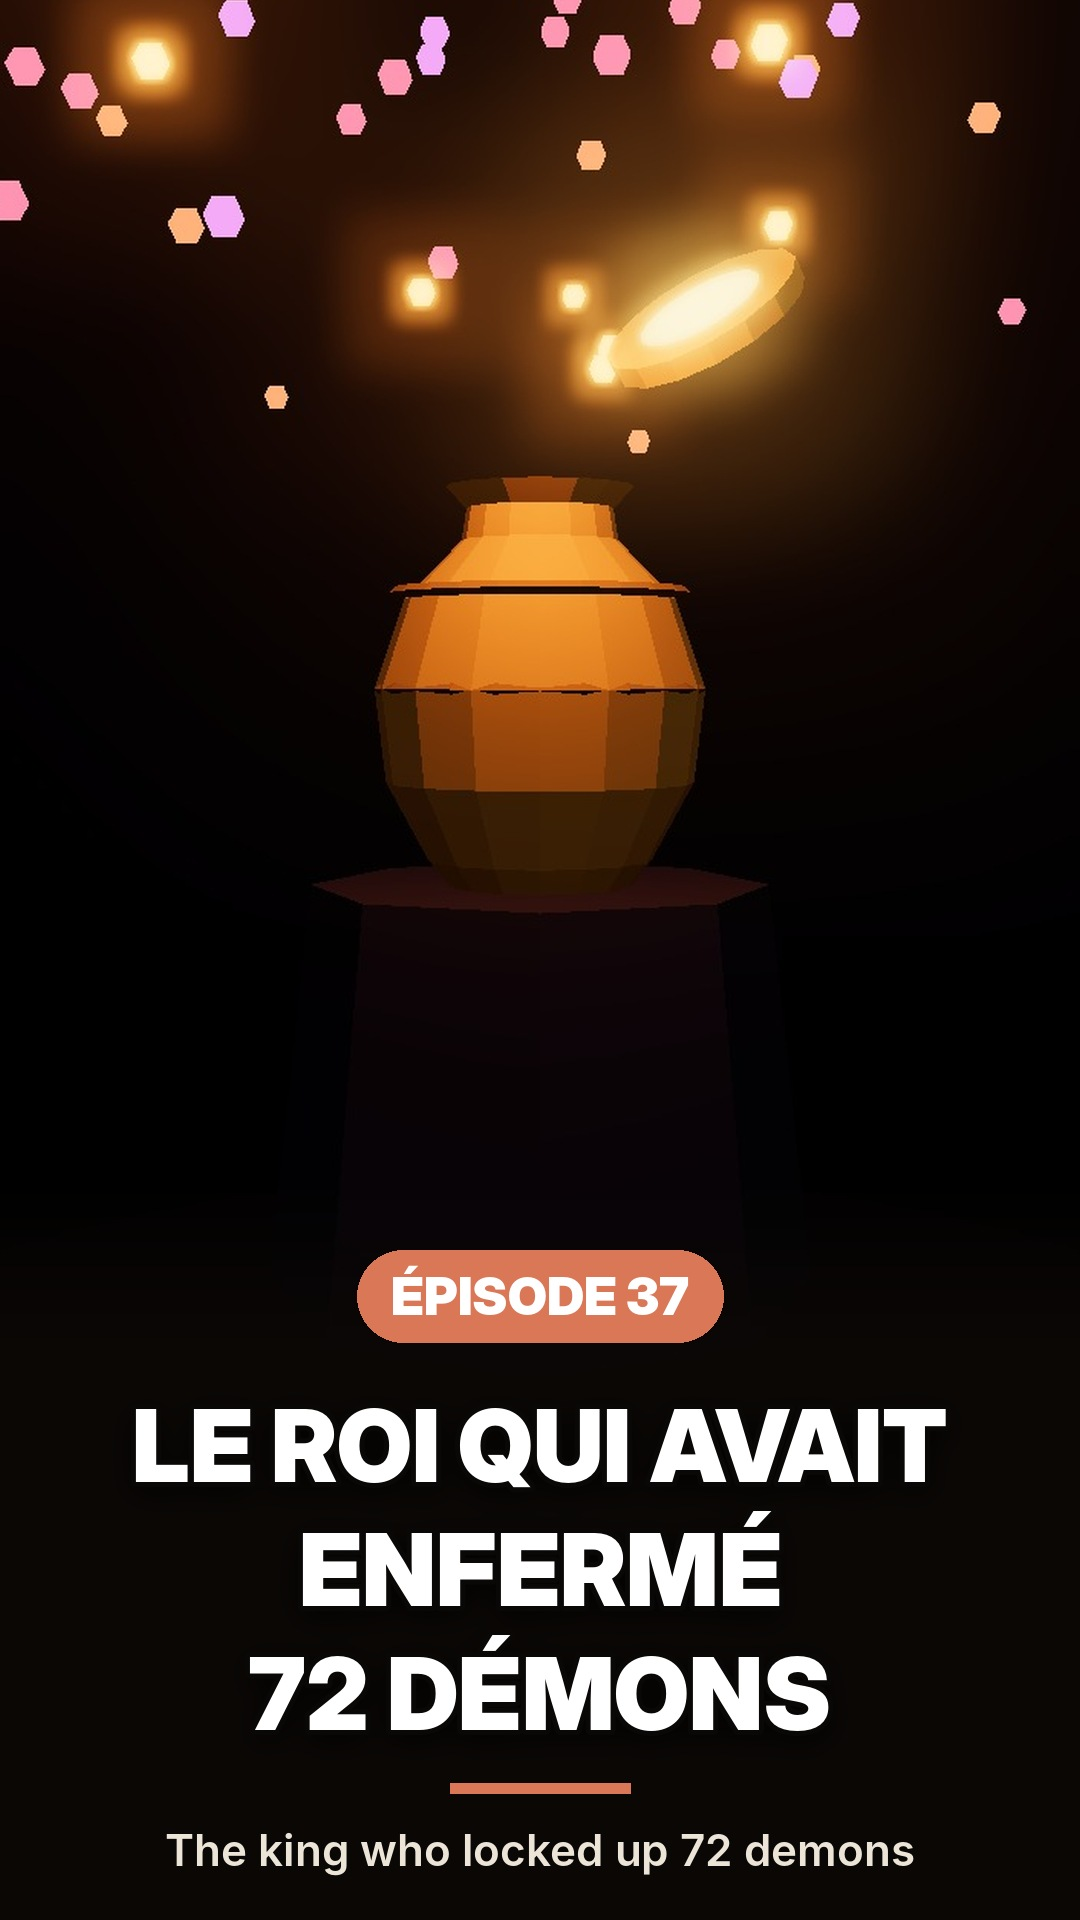
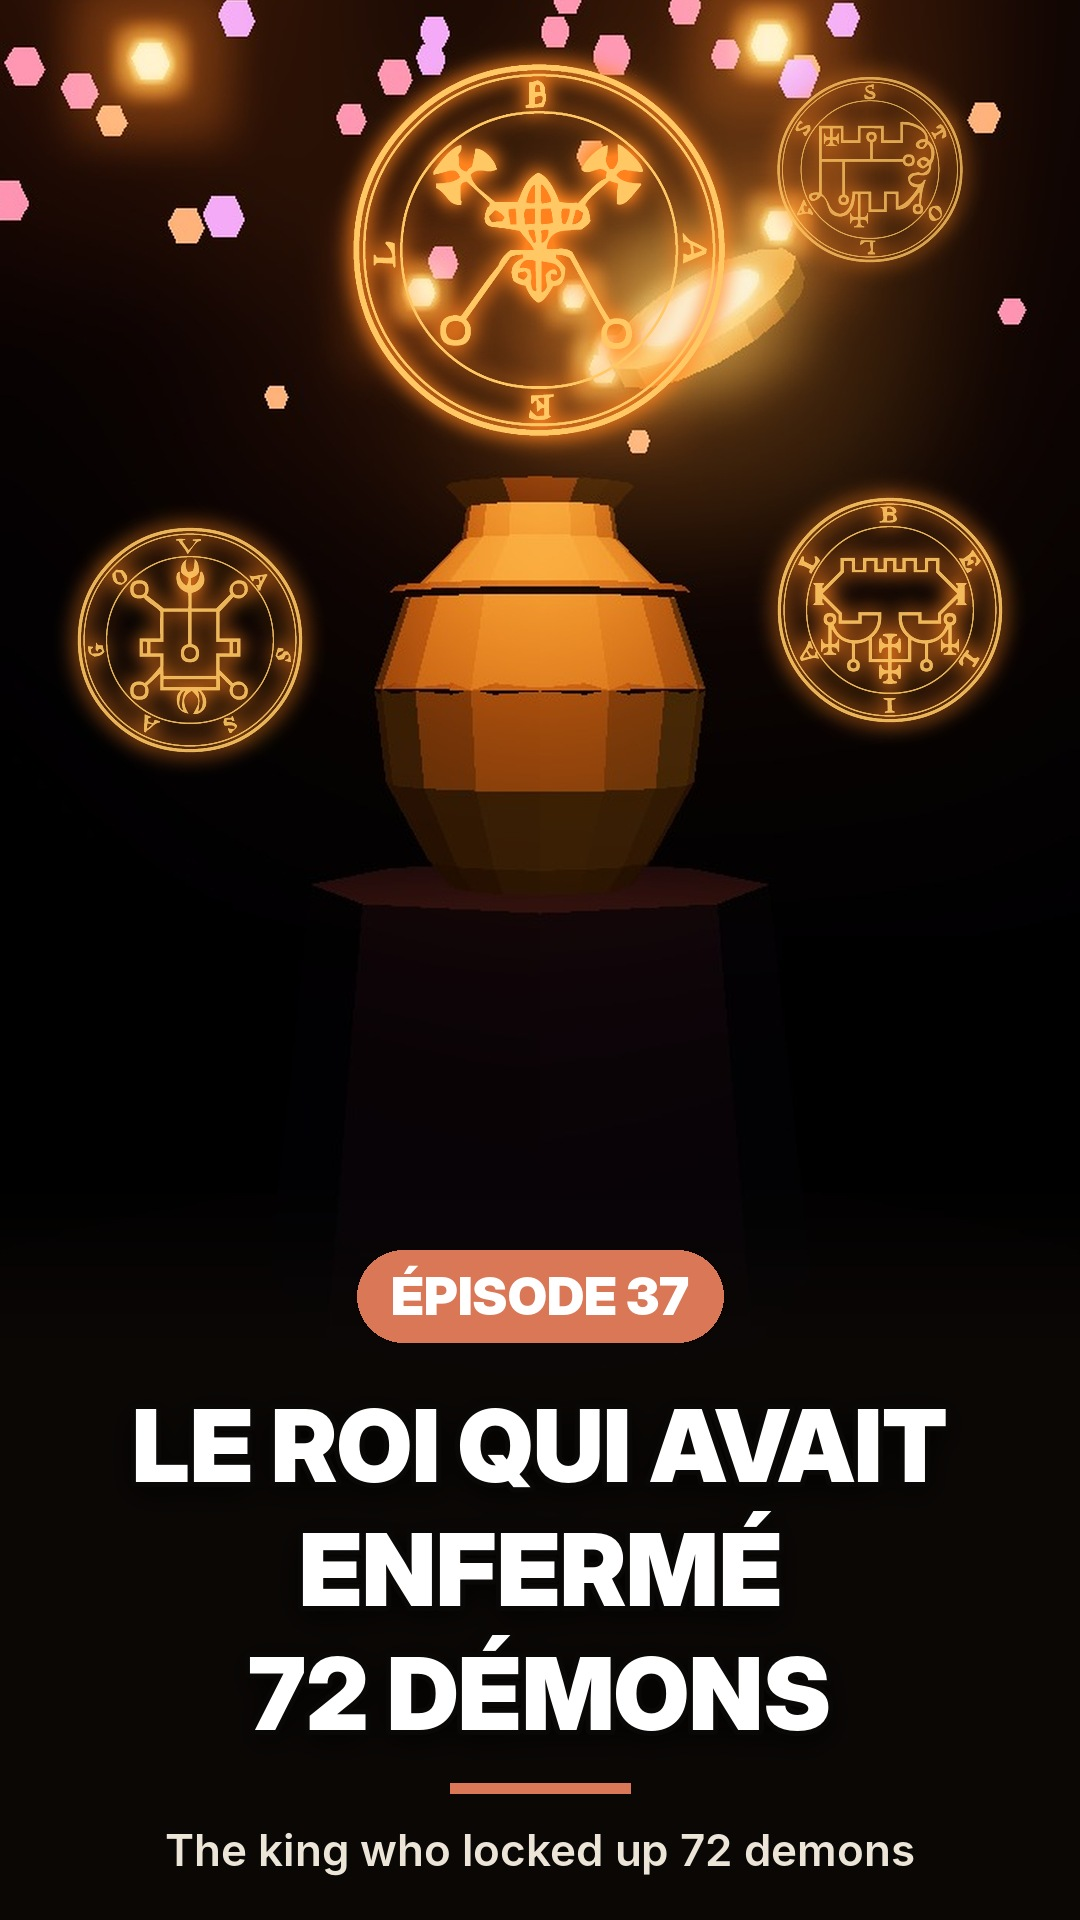
Épisode 37 : nouvelle couverture avec les vrais sceaux de la Goetia (Baël, Vassago, Bélial, Stolas)
Claude-Session: https://claude.ai/code/session_01MdC9EMAfjttt8kZ4HV5TxG

Changed region(s): [[0.3056, 0.0, 0.9167, 0.25], [0.0611, 0.25, 0.3056, 0.4062], [0.7028, 0.25, 0.9472, 0.4062]]

diff --git a/ep37/make_cover37.py b/ep37/make_cover37.py
@@ -1,4 +1,4 @@
-# Couverture de l'episode 37 : le vase de bronze et les 72 lueurs qui s'echappent (image du rendu 3D)
+# Couverture de l'episode 37 : le vase ouvert et les vrais sceaux de la Goetia (edition de 1904, domaine public) qui s'en echappent
 from PIL import Image, ImageDraw, ImageFont, ImageFilter
 import os
 HERE = os.path.dirname(os.path.abspath(__file__))
@@ -12,6 +12,17 @@ s = 1960 / src.height; src = src.resize((int(src.width * s), 1960), Image.LANCZO
 cx = int(src.width * 0.5); x0 = max(0, min(src.width - 1080, cx - 540))
 im = src.crop((x0, 20, x0 + 1080, 1940))
 # bande sombre au milieu pour le titre
+def seal(name, size, alpha=255, pad=50):
+    src_ = Image.open(os.path.join(HERE, 'assets/sceaux', name)).convert('RGBA'); wb = Image.new('RGBA', src_.size, (255, 255, 255, 255)); wb.alpha_composite(src_)
+    sm = wb.convert('L').resize((size, size), Image.LANCZOS)
+    m0 = sm.point(lambda v: 0 if v > 165 else min(255, int((165 - v) * 1.6 * alpha / 255)))
+    mask = Image.new('L', (size + 2 * pad, size + 2 * pad), 0); mask.paste(m0, (pad, pad))
+    gold = Image.new('RGBA', mask.size, (255, 200, 100, 0)); gold.putalpha(mask)
+    glow = Image.new('RGBA', mask.size, (255, 130, 30, 0)); glow.putalpha(mask.filter(ImageFilter.GaussianBlur(10)).point(lambda v: min(255, v * 2)))
+    return glow, gold, pad
+for name, size, x, y, a_ in [('01-Bael.png', 380, 540, 250, 255), ('03-Vassago.png', 230, 190, 640, 220), ('68-Belial.png', 230, 890, 610, 220), ('36-Stolas.png', 190, 870, 170, 190)]:
+    glow, gold, pad = seal(name, size, a_)
+    for layer in (glow, gold): im.paste(layer, (x - size // 2 - pad, y - size // 2 - pad), layer)
 grad = Image.new('L', im.size, 0); gd = ImageDraw.Draw(grad)
 for y in range(1920):
     k = max(0.0, min(1.0, (y - 1180) / 260)); gd.line([(0, y), (1080, y)], fill=int(215 * min(1, k * 1.6)))

diff --git a/ep16/NOTES_SERIE.md b/ep16/NOTES_SERIE.md
@@ -72,4 +72,4 @@
 - Durée (oct. 2026, à partir de l'ép. 37) : Mr A trouve que les vidéos survolent le sujet. Il autorise jusqu'à 3 minutes :
   détailler davantage (plusieurs exemples concrets, chiffres, origine des faits, culture populaire), viser 2 min 30 à 3 min.
 - Quand Mr A n'envoie pas de vidéo modèle : construire le sujet à notre manière, sans s'inspirer d'une vidéo existante.
-- Occultisme / démons (ép. 37) : raconter l'histoire du texte « selon les textes », sans mode d'emploi ; sceaux dessinés décoratifs (inventés).
+- Occultisme / démons (ép. 37) : raconter l'histoire du texte « selon les textes », sans mode d'emploi ; sceaux : les vrais sceaux (édition de 1904, domaine public) sont acceptés par Mr A, il les a demandés sur la couverture.
